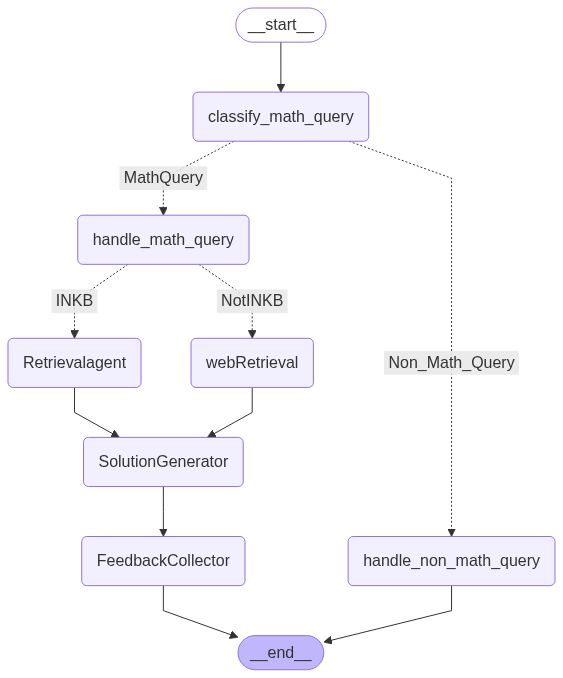
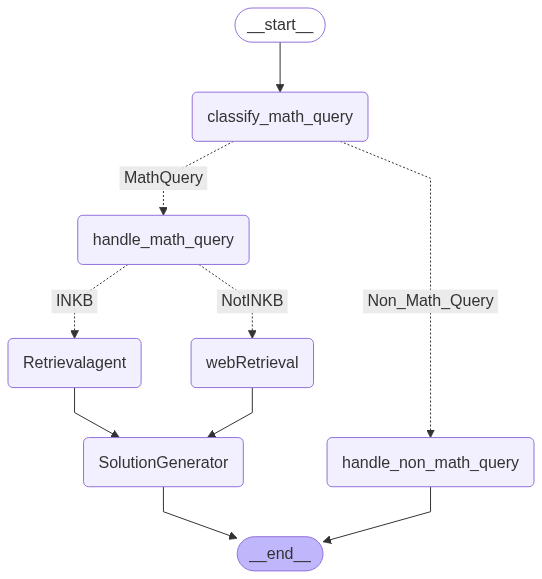
added dspy rag and hitl

Changed region(s): [[0.0, 0.0, 1.0, 0.9948], [0.679, 0.4974, 0.9151, 0.5596]]

diff --git a/dspyrag/ver5.py b/dspyrag/ver5.py
@@ -1,0 +1,142 @@
+import os
+import dspy
+import torch
+import google.generativeai as genai
+from langchain_community.embeddings import HuggingFaceEmbeddings
+from langchain_community.vectorstores import FAISS
+
+# Configuration
+pdf_dir = "J:/Assignment/Aiplanet/testingknowledgebase/pdfs"
+save_path = "enhanced_math_vector_db"
+api_key = os.getenv("GOOGLE_API_KEY")
+
+# Initialize Gemini
+genai.configure(api_key=api_key)
+gemini = genai.GenerativeModel("gemini-2.0-flash")
+
+# Configure DSPy with Gemini
+lm = dspy.LM(
+    "gemini/gemini-2.0-flash",
+    api_key=api_key,
+    max_tokens=1000,
+    temperature=0.7,
+)
+dspy.configure(lm=lm)
+
+# Load FAISS vector database
+embedding_model = HuggingFaceEmbeddings(
+    model_name="sentence-transformers/all-MiniLM-L12-v2",
+    model_kwargs={
+        "device": "cuda" if torch.cuda.is_available() else "cpu",
+        "trust_remote_code": True
+    },
+    encode_kwargs={"normalize_embeddings": True}
+)
+vector_db = FAISS.load_local(
+    save_path,
+    embeddings=embedding_model,
+    allow_dangerous_deserialization=True
+)
+
+# DSPy signature for answering questions
+class GenerateAnswer(dspy.Signature):
+    context = dspy.InputField(desc="Relevant context from knowledge base")
+    question = dspy.InputField(desc="The question to answer")
+    answer = dspy.OutputField(desc="The detailed answer to the question")
+
+# FAISS-based retriever
+def faiss_retriever(query, k=3):
+    try:
+        results = vector_db.similarity_search(query, k=k)
+        passages = [doc.page_content for doc in results]
+        return passages
+    except Exception as e:
+        print(f"Error in retrieval: {e}")
+        return ["No relevant context found."]
+
+# Simple feedback function
+def provide_feedback(is_positive):
+    if is_positive:
+        print("✓ Positive feedback received - Answer was helpful!")
+    else:
+        print("✗ Negative feedback received - Answer needs improvement!")
+
+# RAG Module using DSPy
+class RAG(dspy.Module):
+    def __init__(self):
+        super().__init__()
+        self.generate_answer = dspy.ChainOfThought(GenerateAnswer)
+    
+    def forward(self, question):
+        retrieved_passages = faiss_retriever(question, k=3)
+        context = "\n\n".join(retrieved_passages)
+        result = self.generate_answer(context=context, question=question)
+        result.retrieved_passages = retrieved_passages
+        return result
+
+rag = RAG()
+
+def ask_question(question):
+    try:
+        response = rag(question=question)
+        print(f"Question: {question}")
+        print(f"Answer: {response.answer}")
+        print("\nRetrieved Context:")
+        if hasattr(response, 'retrieved_passages'):
+            for i, passage in enumerate(response.retrieved_passages, 1):
+                print(f"{i}. {passage}...")
+        print("\n" + "="*80 + "\n")
+        return response
+    except Exception as e:
+        print(f"Error processing question '{question}': {e}")
+        return None
+
+def process_queries_from_file(file_path):
+    try:
+        with open(file_path, "r", encoding="utf-8") as f:
+            queries = [line.strip() for line in f if line.strip() and not line.startswith("#")]
+        print(f"Processing {len(queries)} queries from {file_path}\n")
+        results = []
+        for i, query in enumerate(queries, 1):
+            print(f"Query {i}/{len(queries)}:")
+            result = ask_question(query)
+            results.append(result)
+        return results
+    except FileNotFoundError:
+        print(f"Error: Could not find file {file_path}")
+        return []
+    except Exception as e:
+        print(f"Error reading file {file_path}: {e}")
+        return []
+
+def test_system():
+    sample_questions = [
+        "What is the main topic discussed in the documents?",
+        "Can you summarize the key findings?",
+        "What are the main conclusions?"
+    ]
+    print("Testing RAG system with sample questions:\n")
+    for question in sample_questions:
+        ask_question(question)
+
+if __name__ == "__main__":
+    if vector_db:
+        print("FAISS vector database loaded successfully!")
+        print(f"Number of documents in vector store: {vector_db.index.ntotal}")
+    
+    queries_file = "J:/Assignment/Aiplanet/testingknowledgebase/queries.txt"
+    
+    if os.path.exists(queries_file):
+        results = process_queries_from_file(queries_file)
+    else:
+        print(f"Queries file not found at {queries_file}")
+        print("Running test with sample questions instead:\n")
+        test_system()
+    
+    print("\n" + "="*50)
+    print("FEEDBACK SYSTEM EXAMPLE")
+    print("="*50)
+    ask_question("What is machine learning?")
+    # Uncomment to give feedback:
+    # provide_feedback(True)
+    # provide_feedback(False)

diff --git a/graph_agent.py b/graph_agent.py
@@ -6,6 +6,7 @@ from langgraph.graph import StateGraph, END
 from langchain_google_genai import ChatGoogleGenerativeAI
 from testingguardrail import querying
 from kbhelper import is_out_of_knowledge_base
+from dspyrag.ver5 import ask_question,provide_feedback
 
 
 load_dotenv()
@@ -29,7 +30,6 @@ class ChatState(BaseModel):
     is_present_in_kb:bool=False
     relevntdoc: str = ""
     web_search_results: str = ""
-    feedback: Optional[str] = None 
     
 
 
@@ -82,13 +82,10 @@ def handlemathquery(state: ChatState) -> ChatState:
     is_outside_kb, docs,score = is_out_of_knowledge_base(state.input)
     print(is_outside_kb)
     
-    retrieved_snippets = "\n\n".join([
-    f"Doc {i+1}:\n{doc.page_content}"
-    for i, doc in enumerate(docs)
-])
+    retrieved_snippets = ""
     if (is_outside_kb):
-        state.relevntdoc=retrieved_snippets
-        print(retrieved_snippets)
+        state.relevntdoc=ask_question(question=state.input)
+        print(state.relevntdoc)
    
     
     return ChatState(
@@ -240,11 +237,12 @@ Return only the cleaned, final answer.
         input=state.input,
         output=llmresponse,
         counter=state.counter + 1,
-        )
-def feedback_collector(state: ChatState) -> ChatState:
-    return state
+        )    
+def positive():
+    provide_feedback(True)
+def Negative():
+    provide_feedback(False)
 
-    
 
 
 
@@ -255,8 +253,6 @@ graph_builder.add_node("handle_non_math_query", notmathquery)
 graph_builder.add_node("Retrievalagent",Retrievalagent)
 graph_builder.add_node("webRetrieval",webRetrievalagent)
 graph_builder.add_node("SolutionGenerator",solutionGenerator)
-graph_builder.add_node("FeedbackCollector", feedback_collector)
-
 
 graph_builder.set_entry_point("classify_math_query")
 
@@ -271,8 +267,7 @@ graph_builder.add_edge("Retrievalagent","SolutionGenerator")
 
 graph_builder.add_edge("webRetrieval","SolutionGenerator")
 
-graph_builder.add_edge("SolutionGenerator", "FeedbackCollector")
-graph_builder.add_edge("FeedbackCollector", END)
+graph_builder.add_edge("SolutionGenerator",END)
 
 
 graph = graph_builder.compile()

diff --git a/chat.py b/chat.py
@@ -1,5 +1,5 @@
 import streamlit as st
-from graph_agent import graph, ChatState
+from graph_agent import graph, ChatState,positive,Negative
 
 st.set_page_config(page_title="Gemini Chatbot", layout="centered")
 st.title("🤖 MathMentorAI (Lang Graph )")
@@ -65,9 +65,16 @@ if user_input := st.chat_input("Type your question..."):
 
     # ✍ Human-in-the-loop feedback input
     with st.expander("💡 Provide feedback on this response"):
-        feedback_text = st.text_area("Your feedback", key=f"feedback_{len(st.session_state.chat_history)}")
-        if st.button("Submit Feedback"):
-            st.success("✅ Feedback submitted!")
-            # Save feedback log
+        col1, col2 = st.columns(2)
+    with col1:
+        if st.button("👍 Upvote", key=f"up_{len(st.session_state.chat_history)}"):
+            positive()
+            st.success("✅ Feedback submitted: Upvoted")
             with open("feedback_log.txt", "a", encoding="utf-8") as f:
-                f.write(f"Q: {user_input}\nA: {ai_response}\nFeedback: {feedback_text}\n{'='*80}\n")
+                f.write(f"Q: {user_input}\nA: {ai_response}\nFeedback: Upvoted\n{'='*80}\n")
+    with col2:
+        if st.button("👎 Downvote", key=f"down_{len(st.session_state.chat_history)}"):
+            Negative()
+            st.success("✅ Feedback submitted: Downvoted")
+            with open("feedback_log.txt", "a", encoding="utf-8") as f:
+                f.write(f"Q: {user_input}\nA: {ai_response}\nFeedback: Downvoted\n{'='*80}\n")
